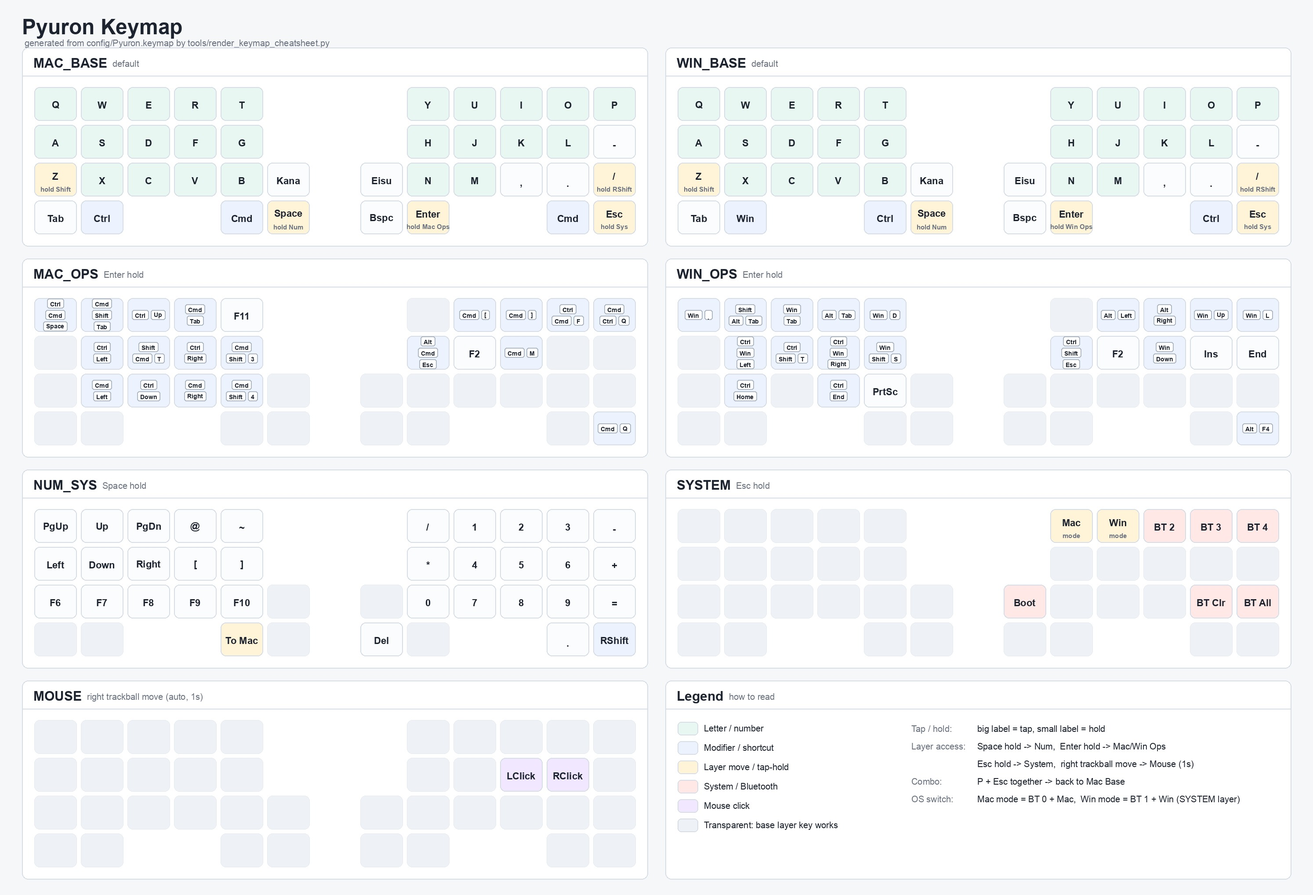
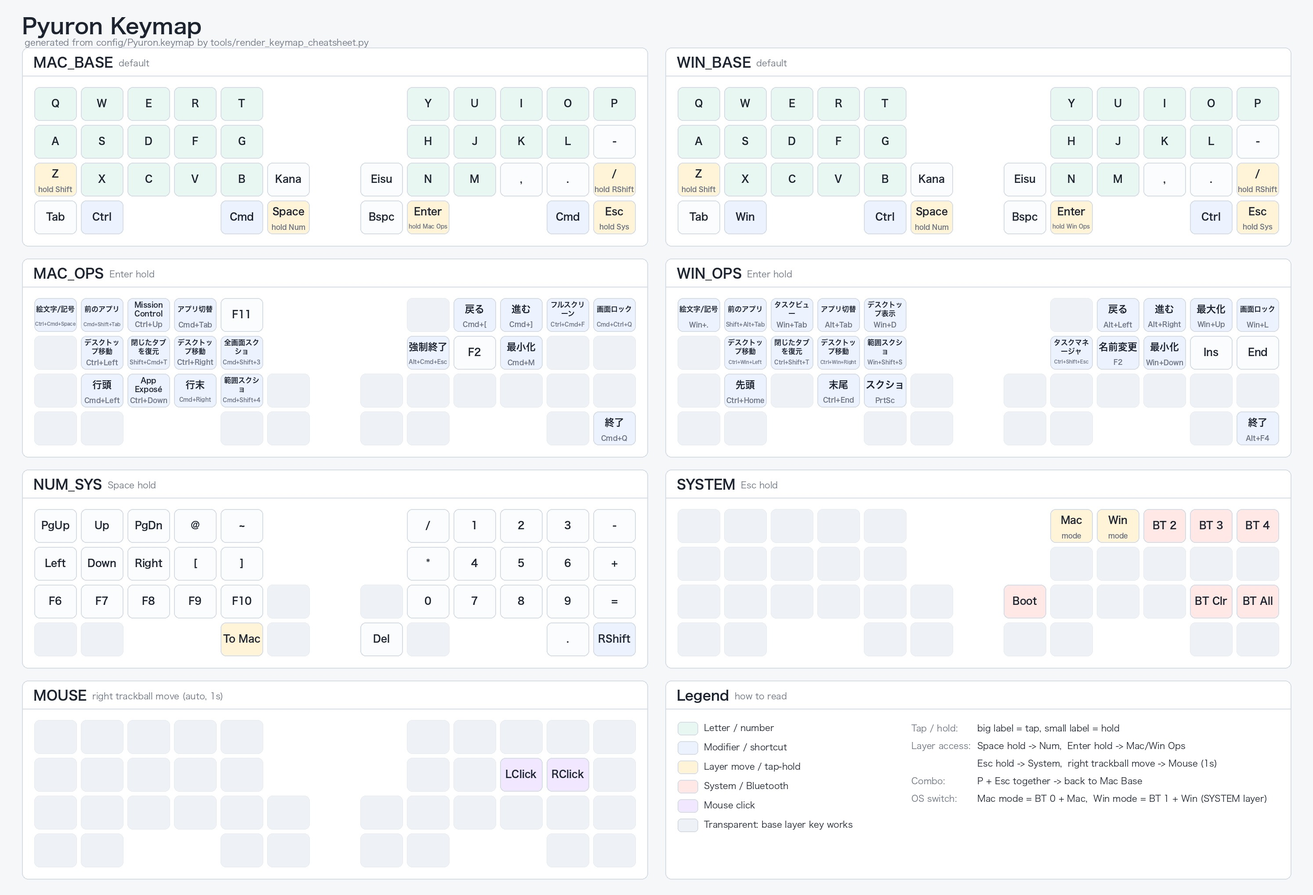
feat: ショートカットの機能名を早見表に追加

diff --git a/docs/keymap-cheatsheet.html b/docs/keymap-cheatsheet.html
@@ -467,7 +467,7 @@
     // Do not hand-edit positions/layers below; re-run the script instead.
     const positions = [{"row": 0, "col": 0, "x": 0, "y": 0}, {"row": 0, "col": 1, "x": 1, "y": 0}, {"row": 0, "col": 2, "x": 2, "y": 0}, {"row": 0, "col": 3, "x": 3, "y": 0}, {"row": 0, "col": 4, "x": 4, "y": 0}, {"row": 0, "col": 5, "x": 8, "y": 0}, {"row": 0, "col": 6, "x": 9, "y": 0}, {"row": 0, "col": 7, "x": 10, "y": 0}, {"row": 0, "col": 8, "x": 11, "y": 0}, {"row": 0, "col": 9, "x": 12, "y": 0}, {"row": 1, "col": 0, "x": 0, "y": 1}, {"row": 1, "col": 1, "x": 1, "y": 1}, {"row": 1, "col": 2, "x": 2, "y": 1}, {"row": 1, "col": 3, "x": 3, "y": 1}, {"row": 1, "col": 4, "x": 4, "y": 1}, {"row": 1, "col": 5, "x": 8, "y": 1}, {"row": 1, "col": 6, "x": 9, "y": 1}, {"row": 1, "col": 7, "x": 10, "y": 1}, {"row": 1, "col": 8, "x": 11, "y": 1}, {"row": 1, "col": 9, "x": 12, "y": 1}, {"row": 2, "col": 0, "x": 0, "y": 2}, {"row": 2, "col": 1, "x": 1, "y": 2}, {"row": 2, "col": 2, "x": 2, "y": 2}, {"row": 2, "col": 3, "x": 3, "y": 2}, {"row": 2, "col": 4, "x": 4, "y": 2}, {"row": 2, "col": 5, "x": 5, "y": 2}, {"row": 2, "col": 6, "x": 7, "y": 2}, {"row": 2, "col": 7, "x": 8, "y": 2}, {"row": 2, "col": 8, "x": 9, "y": 2}, {"row": 2, "col": 9, "x": 10, "y": 2}, {"row": 3, "col": 0, "x": 11, "y": 2}, {"row": 3, "col": 1, "x": 12, "y": 2}, {"row": 3, "col": 2, "x": 0, "y": 3}, {"row": 3, "col": 3, "x": 1, "y": 3}, {"row": 3, "col": 4, "x": 4, "y": 3}, {"row": 3, "col": 5, "x": 5, "y": 3}, {"row": 3, "col": 6, "x": 7, "y": 3}, {"row": 3, "col": 7, "x": 8, "y": 3}, {"row": 3, "col": 8, "x": 11, "y": 3}, {"row": 3, "col": 9, "x": 12, "y": 3}];
 
-    const layers = [{"name": "MAC_BASE", "group": "mac", "note": "default", "keys": [["Q", "", "letter"], ["W", "", "letter"], ["E", "", "letter"], ["R", "", "letter"], ["T", "", "letter"], ["Y", "", "letter"], ["U", "", "letter"], ["I", "", "letter"], ["O", "", "letter"], ["P", "", "letter"], ["A", "", "letter"], ["S", "", "letter"], ["D", "", "letter"], ["F", "", "letter"], ["G", "", "letter"], ["H", "", "letter"], ["J", "", "letter"], ["K", "", "letter"], ["L", "", "letter"], ["-", "", ""], ["Z", "hold Shift", "layer"], ["X", "", "letter"], ["C", "", "letter"], ["V", "", "letter"], ["B", "", "letter"], ["Kana", "", ""], ["Eisu", "", ""], ["N", "", "letter"], ["M", "", "letter"], [",", "", ""], [".", "", ""], ["/", "hold RShift", "layer"], ["Tab", "", ""], ["Ctrl", "", "mod"], ["Cmd", "", "mod"], ["Space", "hold Num", "layer"], ["Bspc", "", ""], ["Enter", "hold Mac Ops", "layer"], ["Cmd", "", "mod"], ["Esc", "hold Sys", "layer"]]}, {"name": "MAC_OPS", "group": "mac", "note": "Enter hold", "keys": [["Ctrl+Cmd+Space", "", "mod"], ["Cmd+Shift+Tab", "", "mod"], ["Ctrl+Up", "", "mod"], ["Cmd+Tab", "", "mod"], ["F11", "", ""], ["trns", "", "transparent"], ["Cmd+[", "", "mod"], ["Cmd+]", "", "mod"], ["Ctrl+Cmd+F", "", "mod"], ["Cmd+Ctrl+Q", "", "mod"], ["trns", "", "transparent"], ["Ctrl+Left", "", "mod"], ["Shift+Cmd+T", "", "mod"], ["Ctrl+Right", "", "mod"], ["Cmd+Shift+3", "", "mod"], ["Alt+Cmd+Esc", "", "mod"], ["F2", "", ""], ["Cmd+M", "", "mod"], ["trns", "", "transparent"], ["trns", "", "transparent"], ["trns", "", "transparent"], ["Cmd+Left", "", "mod"], ["Ctrl+Down", "", "mod"], ["Cmd+Right", "", "mod"], ["Cmd+Shift+4", "", "mod"], ["trns", "", "transparent"], ["trns", "", "transparent"], ["trns", "", "transparent"], ["trns", "", "transparent"], ["trns", "", "transparent"], ["trns", "", "transparent"], ["trns", "", "transparent"], ["trns", "", "transparent"], ["trns", "", "transparent"], ["trns", "", "transparent"], ["trns", "", "transparent"], ["trns", "", "transparent"], ["trns", "", "transparent"], ["trns", "", "transparent"], ["Cmd+Q", "", "mod"]]}, {"name": "WIN_BASE", "group": "win", "note": "default", "keys": [["Q", "", "letter"], ["W", "", "letter"], ["E", "", "letter"], ["R", "", "letter"], ["T", "", "letter"], ["Y", "", "letter"], ["U", "", "letter"], ["I", "", "letter"], ["O", "", "letter"], ["P", "", "letter"], ["A", "", "letter"], ["S", "", "letter"], ["D", "", "letter"], ["F", "", "letter"], ["G", "", "letter"], ["H", "", "letter"], ["J", "", "letter"], ["K", "", "letter"], ["L", "", "letter"], ["-", "", ""], ["Z", "hold Shift", "layer"], ["X", "", "letter"], ["C", "", "letter"], ["V", "", "letter"], ["B", "", "letter"], ["Kana", "", ""], ["Eisu", "", ""], ["N", "", "letter"], ["M", "", "letter"], [",", "", ""], [".", "", ""], ["/", "hold RShift", "layer"], ["Tab", "", ""], ["Win", "", "mod"], ["Ctrl", "", "mod"], ["Space", "hold Num", "layer"], ["Bspc", "", ""], ["Enter", "hold Win Ops", "layer"], ["Ctrl", "", "mod"], ["Esc", "hold Sys", "layer"]]}, {"name": "WIN_OPS", "group": "win", "note": "Enter hold", "keys": [["Win+.", "", "mod"], ["Shift+Alt+Tab", "", "mod"], ["Win+Tab", "", "mod"], ["Alt+Tab", "", "mod"], ["Win+D", "", "mod"], ["trns", "", "transparent"], ["Alt+Left", "", "mod"], ["Alt+Right", "", "mod"], ["Win+Up", "", "mod"], ["Win+L", "", "mod"], ["trns", "", "transparent"], ["Ctrl+Win+Left", "", "mod"], ["Ctrl+Shift+T", "", "mod"], ["Ctrl+Win+Right", "", "mod"], ["Win+Shift+S", "", "mod"], ["Ctrl+Shift+Esc", "", "mod"], ["F2", "", ""], ["Win+Down", "", "mod"], ["Ins", "", ""], ["End", "", ""], ["trns", "", "transparent"], ["Ctrl+Home", "", "mod"], ["trns", "", "transparent"], ["Ctrl+End", "", "mod"], ["PrtSc", "", ""], ["trns", "", "transparent"], ["trns", "", "transparent"], ["trns", "", "transparent"], ["trns", "", "transparent"], ["trns", "", "transparent"], ["trns", "", "transparent"], ["trns", "", "transparent"], ["trns", "", "transparent"], ["trns", "", "transparent"], ["trns", "", "transparent"], ["trns", "", "transparent"], ["trns", "", "transparent"], ["trns", "", "transparent"], ["trns", "", "transparent"], ["Alt+F4", "", "mod"]]}, {"name": "NUM_SYS", "group": "utility", "note": "Space hold", "keys": [["PgUp", "", ""], ["Up", "", ""], ["PgDn", "", ""], ["@", "", ""], ["~", "", ""], ["/", "", ""], ["1", "", ""], ["2", "", ""], ["3", "", ""], ["-", "", ""], ["Left", "", ""], ["Down", "", ""], ["Right", "", ""], ["[", "", ""], ["]", "", ""], ["*", "", ""], ["4", "", ""], ["5", "", ""], ["6", "", ""], ["+", "", ""], ["F6", "", ""], ["F7", "", ""], ["F8", "", ""], ["F9", "", ""], ["F10", "", ""], ["trns", "", "transparent"], ["trns", "", "transparent"], ["0", "", ""], ["7", "", ""], ["8", "", ""], ["9", "", ""], ["=", "", ""], ["trns", "", "transparent"], ["trns", "", "transparent"], ["To Mac", "", "layer"], ["trns", "", "transparent"], ["Del", "", ""], ["trns", "", "transparent"], [".", "", ""], ["RShift", "", "mod"]]}, {"name": "SYSTEM", "group": "utility", "note": "Esc hold", "keys": [["trns", "", "transparent"], ["trns", "", "transparent"], ["trns", "", "transparent"], ["trns", "", "transparent"], ["trns", "", "transparent"], ["Mac", "mode", "layer"], ["Win", "mode", "layer"], ["BT 2", "", "system"], ["BT 3", "", "system"], ["BT 4", "", "system"], ["trns", "", "transparent"], ["trns", "", "transparent"], ["trns", "", "transparent"], ["trns", "", "transparent"], ["trns", "", "transparent"], ["trns", "", "transparent"], ["trns", "", "transparent"], ["trns", "", "transparent"], ["trns", "", "transparent"], ["trns", "", "transparent"], ["trns", "", "transparent"], ["trns", "", "transparent"], ["trns", "", "transparent"], ["trns", "", "transparent"], ["trns", "", "transparent"], ["trns", "", "transparent"], ["Boot", "", "system"], ["trns", "", "transparent"], ["trns", "", "transparent"], ["trns", "", "transparent"], ["BT Clr", "", "system"], ["BT All", "", "system"], ["trns", "", "transparent"], ["trns", "", "transparent"], ["trns", "", "transparent"], ["trns", "", "transparent"], ["trns", "", "transparent"], ["trns", "", "transparent"], ["trns", "", "transparent"], ["trns", "", "transparent"]]}, {"name": "MOUSE", "group": "utility", "note": "right trackball move (auto, 1s)", "keys": [["trns", "", "transparent"], ["trns", "", "transparent"], ["trns", "", "transparent"], ["trns", "", "transparent"], ["trns", "", "transparent"], ["trns", "", "transparent"], ["trns", "", "transparent"], ["trns", "", "transparent"], ["trns", "", "transparent"], ["trns", "", "transparent"], ["trns", "", "transparent"], ["trns", "", "transparent"], ["trns", "", "transparent"], ["trns", "", "transparent"], ["trns", "", "transparent"], ["trns", "", "transparent"], ["trns", "", "transparent"], ["LClick", "", "mouse"], ["RClick", "", "mouse"], ["trns", "", "transparent"], ["trns", "", "transparent"], ["trns", "", "transparent"], ["trns", "", "transparent"], ["trns", "", "transparent"], ["trns", "", "transparent"], ["trns", "", "transparent"], ["trns", "", "transparent"], ["trns", "", "transparent"], ["trns", "", "transparent"], ["trns", "", "transparent"], ["trns", "", "transparent"], ["trns", "", "transparent"], ["trns", "", "transparent"], ["trns", "", "transparent"], ["trns", "", "transparent"], ["trns", "", "transparent"], ["trns", "", "transparent"], ["trns", "", "transparent"], ["trns", "", "transparent"], ["trns", "", "transparent"]]}];
+    const layers = [{"name": "MAC_BASE", "group": "mac", "note": "default", "keys": [["Q", "", "letter"], ["W", "", "letter"], ["E", "", "letter"], ["R", "", "letter"], ["T", "", "letter"], ["Y", "", "letter"], ["U", "", "letter"], ["I", "", "letter"], ["O", "", "letter"], ["P", "", "letter"], ["A", "", "letter"], ["S", "", "letter"], ["D", "", "letter"], ["F", "", "letter"], ["G", "", "letter"], ["H", "", "letter"], ["J", "", "letter"], ["K", "", "letter"], ["L", "", "letter"], ["-", "", ""], ["Z", "hold Shift", "layer"], ["X", "", "letter"], ["C", "", "letter"], ["V", "", "letter"], ["B", "", "letter"], ["Kana", "", ""], ["Eisu", "", ""], ["N", "", "letter"], ["M", "", "letter"], [",", "", ""], [".", "", ""], ["/", "hold RShift", "layer"], ["Tab", "", ""], ["Ctrl", "", "mod"], ["Cmd", "", "mod"], ["Space", "hold Num", "layer"], ["Bspc", "", ""], ["Enter", "hold Mac Ops", "layer"], ["Cmd", "", "mod"], ["Esc", "hold Sys", "layer"]]}, {"name": "MAC_OPS", "group": "mac", "note": "Enter hold", "keys": [["絵文字/記号", "Ctrl+Cmd+Space", "mod"], ["前のアプリ", "Cmd+Shift+Tab", "mod"], ["Mission Control", "Ctrl+Up", "mod"], ["アプリ切替", "Cmd+Tab", "mod"], ["F11", "", ""], ["trns", "", "transparent"], ["戻る", "Cmd+[", "mod"], ["進む", "Cmd+]", "mod"], ["フルスクリーン", "Ctrl+Cmd+F", "mod"], ["画面ロック", "Cmd+Ctrl+Q", "mod"], ["trns", "", "transparent"], ["デスクトップ移動", "Ctrl+Left", "mod"], ["閉じたタブを復元", "Shift+Cmd+T", "mod"], ["デスクトップ移動", "Ctrl+Right", "mod"], ["全画面スクショ", "Cmd+Shift+3", "mod"], ["強制終了", "Alt+Cmd+Esc", "mod"], ["F2", "", ""], ["最小化", "Cmd+M", "mod"], ["trns", "", "transparent"], ["trns", "", "transparent"], ["trns", "", "transparent"], ["行頭", "Cmd+Left", "mod"], ["App Exposé", "Ctrl+Down", "mod"], ["行末", "Cmd+Right", "mod"], ["範囲スクショ", "Cmd+Shift+4", "mod"], ["trns", "", "transparent"], ["trns", "", "transparent"], ["trns", "", "transparent"], ["trns", "", "transparent"], ["trns", "", "transparent"], ["trns", "", "transparent"], ["trns", "", "transparent"], ["trns", "", "transparent"], ["trns", "", "transparent"], ["trns", "", "transparent"], ["trns", "", "transparent"], ["trns", "", "transparent"], ["trns", "", "transparent"], ["trns", "", "transparent"], ["終了", "Cmd+Q", "mod"]]}, {"name": "WIN_BASE", "group": "win", "note": "default", "keys": [["Q", "", "letter"], ["W", "", "letter"], ["E", "", "letter"], ["R", "", "letter"], ["T", "", "letter"], ["Y", "", "letter"], ["U", "", "letter"], ["I", "", "letter"], ["O", "", "letter"], ["P", "", "letter"], ["A", "", "letter"], ["S", "", "letter"], ["D", "", "letter"], ["F", "", "letter"], ["G", "", "letter"], ["H", "", "letter"], ["J", "", "letter"], ["K", "", "letter"], ["L", "", "letter"], ["-", "", ""], ["Z", "hold Shift", "layer"], ["X", "", "letter"], ["C", "", "letter"], ["V", "", "letter"], ["B", "", "letter"], ["Kana", "", ""], ["Eisu", "", ""], ["N", "", "letter"], ["M", "", "letter"], [",", "", ""], [".", "", ""], ["/", "hold RShift", "layer"], ["Tab", "", ""], ["Win", "", "mod"], ["Ctrl", "", "mod"], ["Space", "hold Num", "layer"], ["Bspc", "", ""], ["Enter", "hold Win Ops", "layer"], ["Ctrl", "", "mod"], ["Esc", "hold Sys", "layer"]]}, {"name": "WIN_OPS", "group": "win", "note": "Enter hold", "keys": [["絵文字/記号", "Win+.", "mod"], ["前のアプリ", "Shift+Alt+Tab", "mod"], ["タスクビュー", "Win+Tab", "mod"], ["アプリ切替", "Alt+Tab", "mod"], ["デスクトップ表示", "Win+D", "mod"], ["trns", "", "transparent"], ["戻る", "Alt+Left", "mod"], ["進む", "Alt+Right", "mod"], ["最大化", "Win+Up", "mod"], ["画面ロック", "Win+L", "mod"], ["trns", "", "transparent"], ["デスクトップ移動", "Ctrl+Win+Left", "mod"], ["閉じたタブを復元", "Ctrl+Shift+T", "mod"], ["デスクトップ移動", "Ctrl+Win+Right", "mod"], ["範囲スクショ", "Win+Shift+S", "mod"], ["タスクマネージャ", "Ctrl+Shift+Esc", "mod"], ["名前変更", "F2", "mod"], ["最小化", "Win+Down", "mod"], ["Ins", "", ""], ["End", "", ""], ["trns", "", "transparent"], ["先頭", "Ctrl+Home", "mod"], ["trns", "", "transparent"], ["末尾", "Ctrl+End", "mod"], ["スクショ", "PrtSc", "mod"], ["trns", "", "transparent"], ["trns", "", "transparent"], ["trns", "", "transparent"], ["trns", "", "transparent"], ["trns", "", "transparent"], ["trns", "", "transparent"], ["trns", "", "transparent"], ["trns", "", "transparent"], ["trns", "", "transparent"], ["trns", "", "transparent"], ["trns", "", "transparent"], ["trns", "", "transparent"], ["trns", "", "transparent"], ["trns", "", "transparent"], ["終了", "Alt+F4", "mod"]]}, {"name": "NUM_SYS", "group": "utility", "note": "Space hold", "keys": [["PgUp", "", ""], ["Up", "", ""], ["PgDn", "", ""], ["@", "", ""], ["~", "", ""], ["/", "", ""], ["1", "", ""], ["2", "", ""], ["3", "", ""], ["-", "", ""], ["Left", "", ""], ["Down", "", ""], ["Right", "", ""], ["[", "", ""], ["]", "", ""], ["*", "", ""], ["4", "", ""], ["5", "", ""], ["6", "", ""], ["+", "", ""], ["F6", "", ""], ["F7", "", ""], ["F8", "", ""], ["F9", "", ""], ["F10", "", ""], ["trns", "", "transparent"], ["trns", "", "transparent"], ["0", "", ""], ["7", "", ""], ["8", "", ""], ["9", "", ""], ["=", "", ""], ["trns", "", "transparent"], ["trns", "", "transparent"], ["To Mac", "", "layer"], ["trns", "", "transparent"], ["Del", "", ""], ["trns", "", "transparent"], [".", "", ""], ["RShift", "", "mod"]]}, {"name": "SYSTEM", "group": "utility", "note": "Esc hold", "keys": [["trns", "", "transparent"], ["trns", "", "transparent"], ["trns", "", "transparent"], ["trns", "", "transparent"], ["trns", "", "transparent"], ["Mac", "mode", "layer"], ["Win", "mode", "layer"], ["BT 2", "", "system"], ["BT 3", "", "system"], ["BT 4", "", "system"], ["trns", "", "transparent"], ["trns", "", "transparent"], ["trns", "", "transparent"], ["trns", "", "transparent"], ["trns", "", "transparent"], ["trns", "", "transparent"], ["trns", "", "transparent"], ["trns", "", "transparent"], ["trns", "", "transparent"], ["trns", "", "transparent"], ["trns", "", "transparent"], ["trns", "", "transparent"], ["trns", "", "transparent"], ["trns", "", "transparent"], ["trns", "", "transparent"], ["trns", "", "transparent"], ["Boot", "", "system"], ["trns", "", "transparent"], ["trns", "", "transparent"], ["trns", "", "transparent"], ["BT Clr", "", "system"], ["BT All", "", "system"], ["trns", "", "transparent"], ["trns", "", "transparent"], ["trns", "", "transparent"], ["trns", "", "transparent"], ["trns", "", "transparent"], ["trns", "", "transparent"], ["trns", "", "transparent"], ["trns", "", "transparent"]]}, {"name": "MOUSE", "group": "utility", "note": "right trackball move (auto, 1s)", "keys": [["trns", "", "transparent"], ["trns", "", "transparent"], ["trns", "", "transparent"], ["trns", "", "transparent"], ["trns", "", "transparent"], ["trns", "", "transparent"], ["trns", "", "transparent"], ["trns", "", "transparent"], ["trns", "", "transparent"], ["trns", "", "transparent"], ["trns", "", "transparent"], ["trns", "", "transparent"], ["trns", "", "transparent"], ["trns", "", "transparent"], ["trns", "", "transparent"], ["trns", "", "transparent"], ["trns", "", "transparent"], ["LClick", "", "mouse"], ["RClick", "", "mouse"], ["trns", "", "transparent"], ["trns", "", "transparent"], ["trns", "", "transparent"], ["trns", "", "transparent"], ["trns", "", "transparent"], ["trns", "", "transparent"], ["trns", "", "transparent"], ["trns", "", "transparent"], ["trns", "", "transparent"], ["trns", "", "transparent"], ["trns", "", "transparent"], ["trns", "", "transparent"], ["trns", "", "transparent"], ["trns", "", "transparent"], ["trns", "", "transparent"], ["trns", "", "transparent"], ["trns", "", "transparent"], ["trns", "", "transparent"], ["trns", "", "transparent"], ["trns", "", "transparent"], ["trns", "", "transparent"]]}];
 
     const app = document.querySelector("#app");
     const layersContainer = document.querySelector("#layers");

diff --git a/tools/render_keymap_cheatsheet.py b/tools/render_keymap_cheatsheet.py
@@ -108,6 +108,58 @@ MOUSE_BUTTONS = {
     "MB2": "RClick",
 }
 
+# Function-name labels for OPS-layer shortcuts, keyed by [layer_name][key-code
+# string] (the key-code string is what label_kp() would otherwise display,
+# e.g. "Cmd+Shift+4"). Layer-scoped because the same key code can mean
+# different things on different layers (e.g. F2 is unmapped on MAC_OPS but
+# "名前変更" on WIN_OPS). Only shortcuts explicitly reviewed and confirmed
+# get an entry; anything missing falls back to showing the raw key code.
+SHORTCUT_LABELS: dict[str, dict[str, str]] = {
+    "MAC_OPS": {
+        "Ctrl+Cmd+Space": "絵文字/記号",
+        "Cmd+Shift+Tab": "前のアプリ",
+        "Cmd+Tab": "アプリ切替",
+        "Ctrl+Up": "Mission Control",
+        "Cmd+[": "戻る",
+        "Cmd+]": "進む",
+        "Ctrl+Cmd+F": "フルスクリーン",
+        "Cmd+Ctrl+Q": "画面ロック",
+        "Cmd+Shift+3": "全画面スクショ",
+        "Cmd+Shift+4": "範囲スクショ",
+        "Alt+Cmd+Esc": "強制終了",
+        "Cmd+M": "最小化",
+        "Cmd+Q": "終了",
+        "Ctrl+Left": "デスクトップ移動",
+        "Ctrl+Right": "デスクトップ移動",
+        "Shift+Cmd+T": "閉じたタブを復元",
+        "Cmd+Left": "行頭",
+        "Ctrl+Down": "App Exposé",
+        "Cmd+Right": "行末",
+    },
+    "WIN_OPS": {
+        "Alt+Tab": "アプリ切替",
+        "Win+Tab": "タスクビュー",
+        "Alt+Left": "戻る",
+        "Alt+Right": "進む",
+        "Win+Up": "最大化",
+        "Win+L": "画面ロック",
+        "Win+Shift+S": "範囲スクショ",
+        "Ctrl+Shift+Esc": "タスクマネージャ",
+        "Win+Down": "最小化",
+        "Alt+F4": "終了",
+        "Ctrl+Win+Left": "デスクトップ移動",
+        "Ctrl+Win+Right": "デスクトップ移動",
+        "Ctrl+Home": "先頭",
+        "Ctrl+End": "末尾",
+        "PrtSc": "スクショ",
+        "Win+.": "絵文字/記号",
+        "Shift+Alt+Tab": "前のアプリ",
+        "Win+D": "デスクトップ表示",
+        "Ctrl+Shift+T": "閉じたタブを復元",
+        "F2": "名前変更",
+    },
+}
+
 LAYER_NAMES = {
     "0": "Mac",
     "1": "Mac Ops",
@@ -179,7 +231,10 @@ HEIGHT = TITLE_H + len(LAYER_GRID) * CARD_H + (len(LAYER_GRID) - 1) * ROW_GAP + 
 
 
 def load_font(size: int, bold: bool = False) -> ImageFont.FreeTypeFont:
+    # Hiragino comes first: it covers both Japanese function-name labels
+    # (e.g. "範囲スクショ") and Latin key names in one consistent family.
     candidates = [
+        "/System/Library/Fonts/ヒラギノ角ゴシック W6.ttc" if bold else "/System/Library/Fonts/ヒラギノ角ゴシック W3.ttc",
         "/System/Library/Fonts/Supplemental/Arial Bold.ttf" if bold else "/System/Library/Fonts/Supplemental/Arial.ttf",
         "/System/Library/Fonts/SFNS.ttf",
         "/System/Library/Fonts/SFNSMono.ttf",
@@ -197,7 +252,10 @@ FONTS = {
     "note": load_font(20),
     "key": load_font(22, bold=True),
     "key_small": load_font(16, bold=True),
+    "key_tiny": load_font(13, bold=True),
     "hint": load_font(15, bold=True),
+    "hint_small": load_font(12, bold=True),
+    "hint_tiny": load_font(10, bold=True),
     "token": load_font(14, bold=True),
 }
 
@@ -302,6 +360,9 @@ def label_for(binding: str, layer_name: str) -> Label:
         return Label(key_name(parts[2], layer_name), hint=f"hold {key_name(parts[1], layer_name)}", kind="layer")
     if behavior == "&kp" and len(parts) > 1:
         primary = label_kp(parts[1], layer_name)
+        function_name = SHORTCUT_LABELS.get(layer_name, {}).get(primary)
+        if function_name:
+            return Label(function_name, hint=primary, kind="mod")
         if is_shortcut(primary):
             return Label(primary, kind="mod")
         if re.fullmatch(r"[A-Z]", primary):
@@ -326,6 +387,103 @@ def centered_text(draw: ImageDraw.ImageDraw, xy: tuple[int, int, int, int], text
     w, h = text_size(draw, text, font)
     x1, y1, x2, y2 = xy
     draw.text((x1 + (x2 - x1 - w) / 2, y1 + (y2 - y1 - h) / 2 - 1), text, font=font, fill=fill)
+
+
+CJK_PATTERN = re.compile(r"[぀-ヿ㐀-鿿＀-￯]")
+
+
+def text_units(text: str) -> list[str]:
+    """Split text into wrap units: one per CJK character, whole runs for Latin words."""
+    units: list[str] = []
+    buf = ""
+    for ch in text:
+        if CJK_PATTERN.match(ch):
+            if buf:
+                units.append(buf)
+                buf = ""
+            units.append(ch)
+        elif ch == " ":
+            if buf:
+                units.append(buf)
+                buf = ""
+        else:
+            buf += ch
+    if buf:
+        units.append(buf)
+    return units
+
+
+def _joins_without_space(left: str, right: str) -> bool:
+    return not (left[-1:].isascii() and left[-1:].isalnum() and right[:1].isascii() and right[:1].isalnum())
+
+
+def wrap_text(draw: ImageDraw.ImageDraw, text: str, font: ImageFont.ImageFont, max_width: int) -> list[str]:
+    units = text_units(text)
+    if not units:
+        return []
+    lines: list[str] = []
+    current = ""
+    for unit in units:
+        if not current:
+            candidate = unit
+        else:
+            sep = "" if _joins_without_space(current, unit) else " "
+            candidate = current + sep + unit
+        width, _ = text_size(draw, candidate, font)
+        if width <= max_width or not current:
+            current = candidate
+        else:
+            lines.append(current)
+            current = unit
+    if current:
+        lines.append(current)
+    return lines
+
+
+def fit_primary_lines(
+    draw: ImageDraw.ImageDraw, text: str, max_width: int, max_height: int
+) -> tuple[list[str], ImageFont.ImageFont, int]:
+    """Pick the largest font (key -> key_small -> key_tiny) that lets `text`
+    fit within max_width, wrapping to at most 2 lines if a single line
+    doesn't fit."""
+    font_names = ["key", "key_small", "key_tiny"]
+    for font_name in font_names:
+        font = FONTS[font_name]
+        line_h = text_size(draw, "Agあ", font)[1] + 2
+        width, _ = text_size(draw, text, font)
+        if width <= max_width:
+            return [text], font, line_h
+        lines = wrap_text(draw, text, font, max_width)
+        fits_width = all(text_size(draw, line, font)[0] <= max_width for line in lines)
+        if len(lines) <= 2 and fits_width and line_h * len(lines) <= max_height:
+            return lines, font, line_h
+
+    font = FONTS["key_tiny"]
+    line_h = text_size(draw, "Agあ", font)[1] + 2
+    return wrap_text(draw, text, font, max_width), font, line_h
+
+
+def fit_hint_font(draw: ImageDraw.ImageDraw, text: str, max_width: int) -> ImageFont.ImageFont:
+    """Shrink the hint font (e.g. a raw key code like 'Ctrl+Cmd+Space') until
+    it fits max_width, so it doesn't bleed into neighboring keys."""
+    for font_name in ("hint", "hint_small", "hint_tiny"):
+        font = FONTS[font_name]
+        width, _ = text_size(draw, text, font)
+        if width <= max_width:
+            return font
+    return FONTS["hint_tiny"]
+
+
+def draw_multiline_centered(
+    draw: ImageDraw.ImageDraw, xy: tuple[int, int, int, int], lines: list[str], font: ImageFont.ImageFont, line_h: int, fill: str
+) -> None:
+    total_h = line_h * len(lines)
+    y = xy[1] + (xy[3] - xy[1] - total_h) / 2
+    for line in lines:
+        w, _ = text_size(draw, line, font)
+        x = xy[0] + (xy[2] - xy[0] - w) / 2
+        draw.text((x, y), line, font=font, fill=fill)
+        y += line_h
 
 
 def draw_combo(draw: ImageDraw.ImageDraw, xy: tuple[int, int, int, int], label: str) -> None:
@@ -366,11 +524,17 @@ def draw_key(draw: ImageDraw.ImageDraw, xy: tuple[int, int, int, int], label: La
     if is_shortcut(label.primary):
         draw_combo(draw, xy, label.primary)
     else:
-        font = FONTS["key"] if len(label.primary) <= 6 else FONTS["key_small"]
-        upper = (xy[0], xy[1] + 4, xy[2], xy[3] - (24 if label.hint else 4))
-        centered_text(draw, upper, label.primary, font, COLORS["text"])
+        pad = 3
+        hint_h = 24 if label.hint else 0
+        primary_box = (xy[0] + pad, xy[1] + pad, xy[2] - pad, xy[3] - hint_h - pad)
+        max_w = primary_box[2] - primary_box[0]
+        max_h = primary_box[3] - primary_box[1]
+        lines, font, line_h = fit_primary_lines(draw, label.primary, max_w, max_h)
+        draw_multiline_centered(draw, primary_box, lines, font, line_h, COLORS["text"])
     if label.hint:
-        centered_text(draw, (xy[0], xy[3] - 28, xy[2], xy[3] - 6), label.hint, FONTS["hint"], COLORS["muted"])
+        hint_box = (xy[0] + 3, xy[3] - 27, xy[2] - 3, xy[3] - 5)
+        hint_font = fit_hint_font(draw, label.hint, hint_box[2] - hint_box[0])
+        centered_text(draw, hint_box, label.hint, hint_font, COLORS["muted"])
 
 
 def draw_card_frame(draw: ImageDraw.ImageDraw, x: int, y: int, name: str, note: str) -> None:

diff --git a/docs/keymap-cheatsheet.md b/docs/keymap-cheatsheet.md
@@ -45,10 +45,10 @@
 
 | x0 | x1 | x2 | x3 | x4 | x5 | x6 | x7 | x8 | x9 | x10 | x11 | x12 |
 | --- | --- | --- | --- | --- | --- | --- | --- | --- | --- | --- | --- | --- |
-| Ctrl+Cmd+Space | Cmd+Shift+Tab | Ctrl+Up | Cmd+Tab | F11 |  |  |  | trns | Cmd+[ | Cmd+] | Ctrl+Cmd+F | Cmd+Ctrl+Q |
-| trns | Ctrl+Left | Shift+Cmd+T | Ctrl+Right | Cmd+Shift+3 |  |  |  | Alt+Cmd+Esc | F2 | Cmd+M | trns | trns |
-| trns | Cmd+Left | Ctrl+Down | Cmd+Right | Cmd+Shift+4 | trns |  | trns | trns | trns | trns | trns | trns |
-| trns | trns |  |  | trns | trns |  | trns | trns |  |  | trns | Cmd+Q |
+| 絵文字/記号 / Ctrl+Cmd+Space | 前のアプリ / Cmd+Shift+Tab | Mission Control / Ctrl+Up | アプリ切替 / Cmd+Tab | F11 |  |  |  | trns | 戻る / Cmd+[ | 進む / Cmd+] | フルスクリーン / Ctrl+Cmd+F | 画面ロック / Cmd+Ctrl+Q |
+| trns | デスクトップ移動 / Ctrl+Left | 閉じたタブを復元 / Shift+Cmd+T | デスクトップ移動 / Ctrl+Right | 全画面スクショ / Cmd+Shift+3 |  |  |  | 強制終了 / Alt+Cmd+Esc | F2 | 最小化 / Cmd+M | trns | trns |
+| trns | 行頭 / Cmd+Left | App Exposé / Ctrl+Down | 行末 / Cmd+Right | 範囲スクショ / Cmd+Shift+4 | trns |  | trns | trns | trns | trns | trns | trns |
+| trns | trns |  |  | trns | trns |  | trns | trns |  |  | trns | 終了 / Cmd+Q |
 
 ## WIN_BASE
 
@@ -63,10 +63,10 @@
 
 | x0 | x1 | x2 | x3 | x4 | x5 | x6 | x7 | x8 | x9 | x10 | x11 | x12 |
 | --- | --- | --- | --- | --- | --- | --- | --- | --- | --- | --- | --- | --- |
-| Win+. | Shift+Alt+Tab | Win+Tab | Alt+Tab | Win+D |  |  |  | trns | Alt+Left | Alt+Right | Win+Up | Win+L |
-| trns | Ctrl+Win+Left | Ctrl+Shift+T | Ctrl+Win+Right | Win+Shift+S |  |  |  | Ctrl+Shift+Esc | F2 | Win+Down | Ins | End |
-| trns | Ctrl+Home | trns | Ctrl+End | PrtSc | trns |  | trns | trns | trns | trns | trns | trns |
-| trns | trns |  |  | trns | trns |  | trns | trns |  |  | trns | Alt+F4 |
+| 絵文字/記号 / Win+. | 前のアプリ / Shift+Alt+Tab | タスクビュー / Win+Tab | アプリ切替 / Alt+Tab | デスクトップ表示 / Win+D |  |  |  | trns | 戻る / Alt+Left | 進む / Alt+Right | 最大化 / Win+Up | 画面ロック / Win+L |
+| trns | デスクトップ移動 / Ctrl+Win+Left | 閉じたタブを復元 / Ctrl+Shift+T | デスクトップ移動 / Ctrl+Win+Right | 範囲スクショ / Win+Shift+S |  |  |  | タスクマネージャ / Ctrl+Shift+Esc | 名前変更 / F2 | 最小化 / Win+Down | Ins | End |
+| trns | 先頭 / Ctrl+Home | trns | 末尾 / Ctrl+End | スクショ / PrtSc | trns |  | trns | trns | trns | trns | trns | trns |
+| trns | trns |  |  | trns | trns |  | trns | trns |  |  | trns | 終了 / Alt+F4 |
 
 ## NUM_SYS
 
